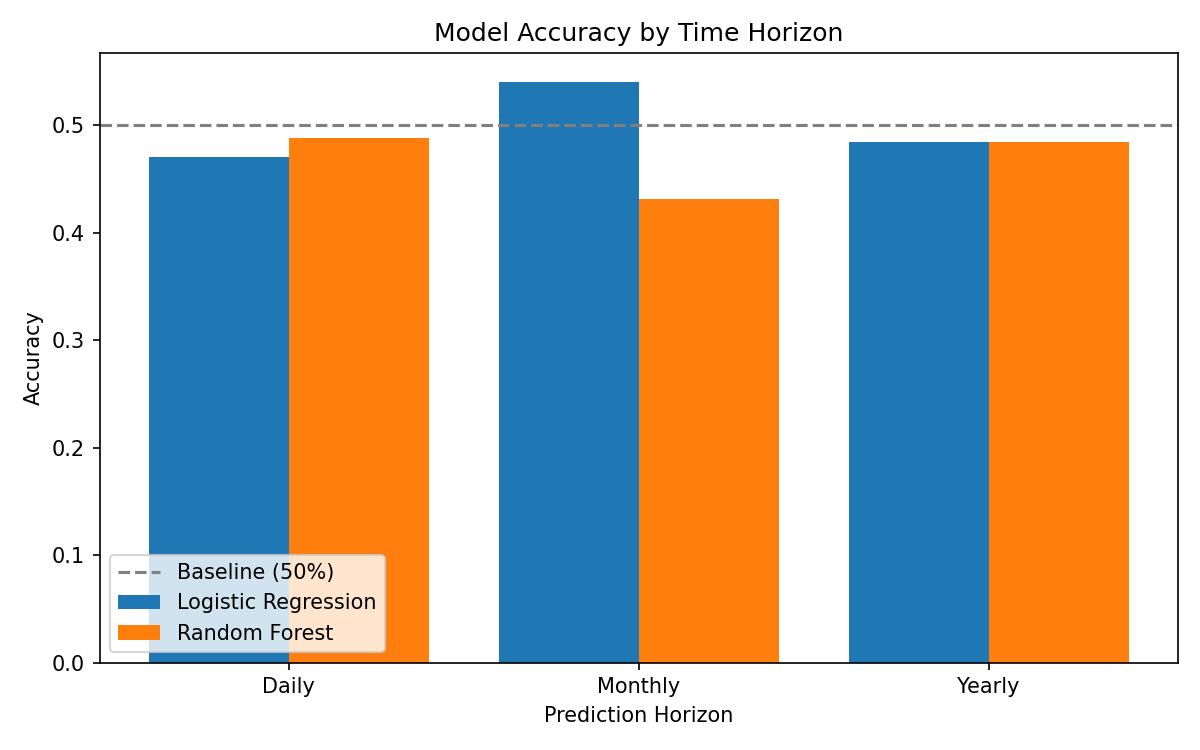
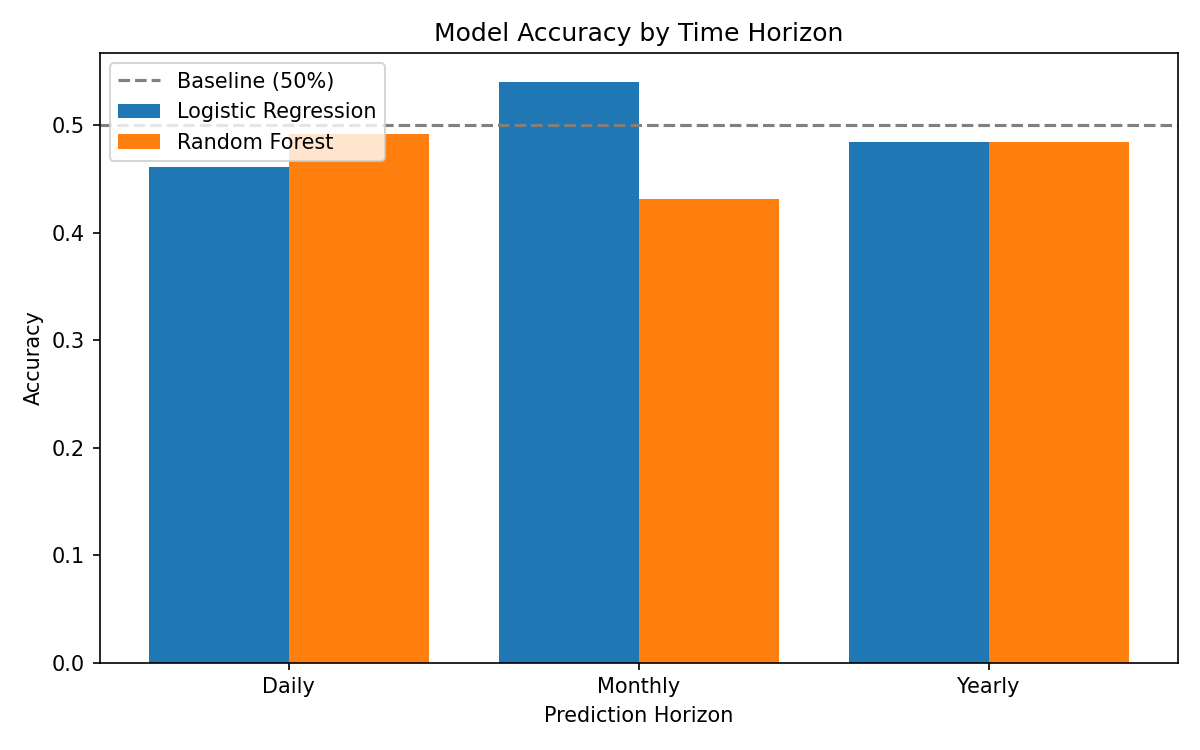
add AUC comp chart, model eval summary CSV to viz

Changed region(s): [[0.0925, 0.736, 0.3392, 0.8893], [0.0925, 0.092, 0.37, 0.2453]]

diff --git a/vis/visualizations.py b/vis/visualizations.py
@@ -1,44 +1,94 @@
+import logging
+import os
+import json
+import pandas as pd
 import matplotlib
 matplotlib.use("Agg")
 import matplotlib.pyplot as plt
-import json
+logger = logging.getLogger(__name__)
 
-#Currently have bar chart comparing the accuracy of the different models and time horizons
-#Subject to add more
 def run_visualizations():
     """
-    Generate visualizations based on model results
+    Generate model comparison visualizations and save evaluation summary
     Reads:
         data/model_outputs/logistic_results.json
         data/model_outputs/random_forest_results.json
     Saves:
-        vis/visualizations/"""
+        vis/visualizations/accuracy_comparison.png
+        data/model_evaluation/auc_comparison.png
+        data/model_evaluation/model_evaluation_summary.csv"""
 
+    os.makedirs("data/model_evaluation", exist_ok=True)
     #Load model results
-    with open("data/model_outputs/logistic_results.json", "r") as f:
-        lr = json.load(f)
-    with open("data/model_outputs/random_forest_results.json", "r") as f:
-        rf = json.load(f)
+    try:
+        with open("data/model_outputs/logistic_results.json", "r") as f:
+            lr = json.load(f)
+        with open("data/model_outputs/random_forest_results.json", "r") as f:
+            rf = json.load(f)
+        logger.info("Model results loaded")
+    except Exception as e:
+        logger.error("Failed to load model results: %s", e)
+        raise
     targets = ["Target_Daily", "Target_Monthly", "Target_Yearly"]
     labels = ["Daily", "Monthly", "Yearly"]
-
-    #Accuracy comparisons
-    lr_acc = [lr["horizons"][t]["accuracy"] for t in targets]
-    rf_acc = [rf["horizons"][t]["accuracy"] for t in targets]
-    x = range(len(labels))
-    plt.figure(figsize=(8, 5))
-    plt.bar([i - 0.2 for i in x], lr_acc, 0.4, label="Logistic Regression")
-    plt.bar([i + 0.2 for i in x], rf_acc, 0.4, label="Random Forest")
-    plt.axhline(y=0.5, color="gray", linestyle="--", label="Baseline (50%)")
-    plt.xlabel("Prediction Horizon")
-    plt.ylabel("Accuracy")
-    plt.title("Model Accuracy by Time Horizon")
-    plt.xticks(x, labels)
-    plt.legend()
-    plt.tight_layout()
-    plt.savefig("vis/visualizations/accuracy_comparison.png", dpi=150)
-    plt.close()
-    print("Visualizations saved")
+    #Accuracy comparison bar chart
+    try:
+        lr_acc = [lr["horizons"][t]["accuracy"] for t in targets]
+        rf_acc = [rf["horizons"][t]["accuracy"] for t in targets]
+        x = range(len(labels))
+        plt.figure(figsize=(8, 5))
+        plt.bar([i - 0.2 for i in x], lr_acc, 0.4, label="Logistic Regression")
+        plt.bar([i + 0.2 for i in x], rf_acc, 0.4, label="Random Forest")
+        plt.axhline(y=0.5, color="gray", linestyle="--", label="Baseline (50%)")
+        plt.xlabel("Prediction Horizon")
+        plt.ylabel("Accuracy")
+        plt.title("Model Accuracy by Time Horizon")
+        plt.xticks(x, labels)
+        plt.legend()
+        plt.tight_layout()
+        plt.savefig("vis/visualizations/accuracy_comparison.png", dpi=150)
+        plt.close()
+        logger.info("Accuracy comparison chart saved")
+    except Exception as e:
+        logger.error("Accuracy comparison chart failed: %s", e)
+        raise
+    #AUC comparison bar chart if roc_auc is present in results
+    try:
+        lr_auc = [lr["horizons"][t].get("roc_auc") for t in targets]
+        rf_auc = [rf["horizons"][t].get("roc_auc") for t in targets]
+        if all(v is not None for v in lr_auc + rf_auc):
+            plt.figure(figsize=(8, 5))
+            plt.bar([i - 0.2 for i in x], lr_auc, 0.4, label="Logistic Regression")
+            plt.bar([i + 0.2 for i in x], rf_auc, 0.4, label="Random Forest")
+            plt.axhline(y=0.5, color="gray", linestyle="--", label="Baseline (0.5)")
+            plt.xlabel("Prediction Horizon")
+            plt.ylabel("ROC-AUC")
+            plt.title("Model ROC-AUC by Time Horizon")
+            plt.xticks(x, labels)
+            plt.legend()
+            plt.tight_layout()
+            plt.savefig("data/model_evaluation/auc_comparison.png", dpi=150)
+            plt.close()
+            logger.info("AUC comparison chart saved")
+    except Exception as e:
+        logger.error("AUC comparison chart failed: %s", e)
+        raise
+    #Summary CSV
+    try:
+        rows = []
+        for t, label in zip(targets, labels):
+            for model_name, results in [("Logistic Regression", lr), ("Random Forest", rf)]:
+                h = results["horizons"][t]
+                report = h.get("classification_report", {})
+                rows.append({"Model": model_name, "Horizon": label, "Accuracy": round(h.get("accuracy", 0), 4), "ROC_AUC": round(h.get("roc_auc", 0), 4),
+                    "Precision_Class1": round(report.get("1", {}).get("precision", 0), 4), "Recall_Class1": round(report.get("1", {}).get("recall", 0), 4), "F1_Class1": round(report.get("1", {}).get("f1-score", 0), 4),})
+        summary_df = pd.DataFrame(rows)
+        summary_df.to_csv("data/model_evaluation/model_evaluation_summary.csv", index=False)
+        logger.info("Evaluation summary CSV saved")
+        print("Visualizations saved")
+    except Exception as e:
+        logger.error("Summary CSV generation failed: %s", e)
+        raise
 
 if __name__ == "__main__":
     run_visualizations()
